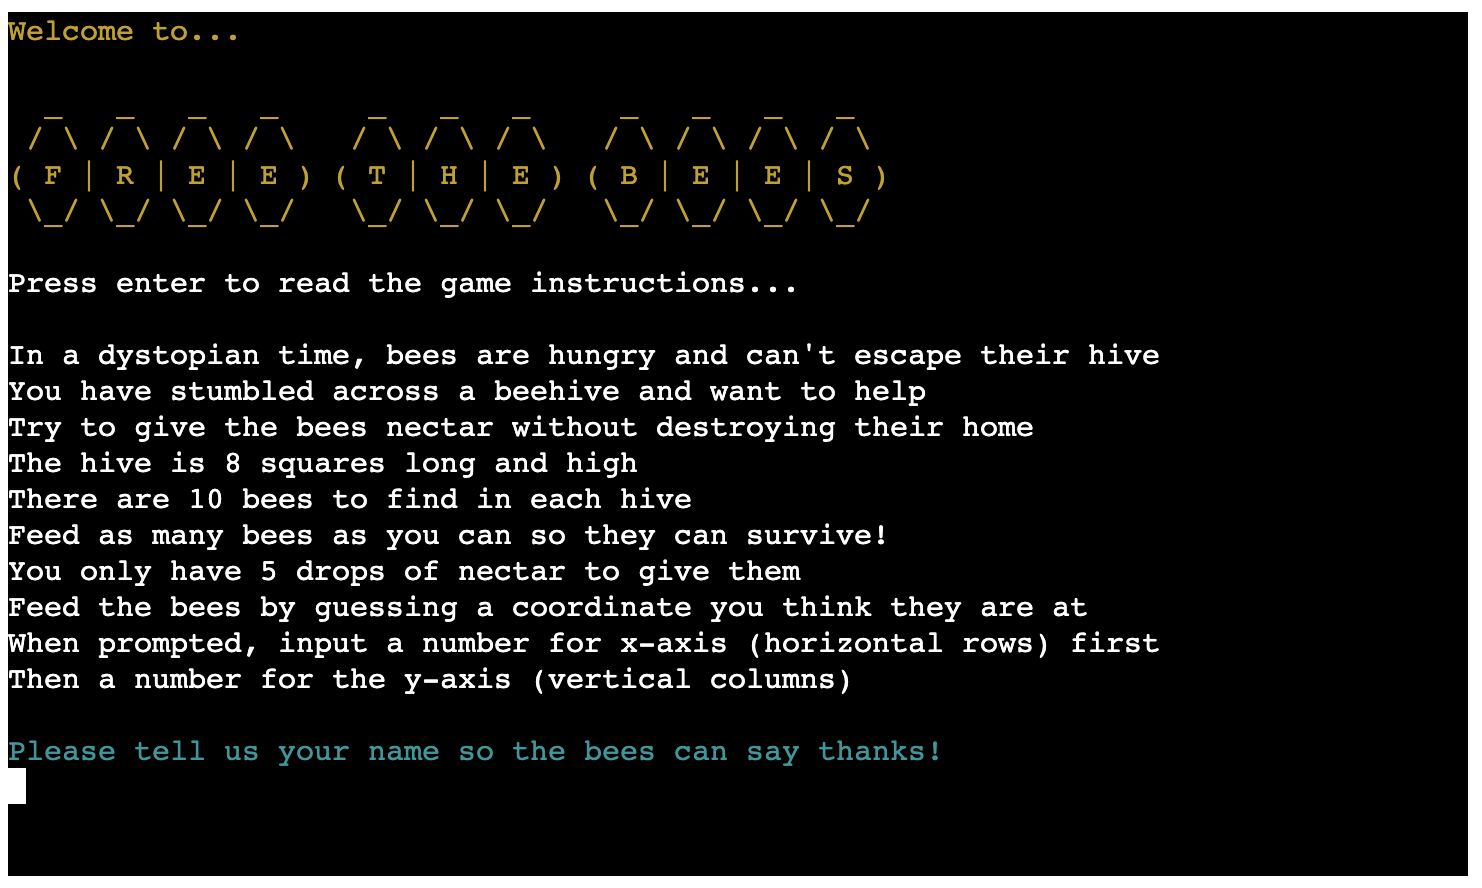
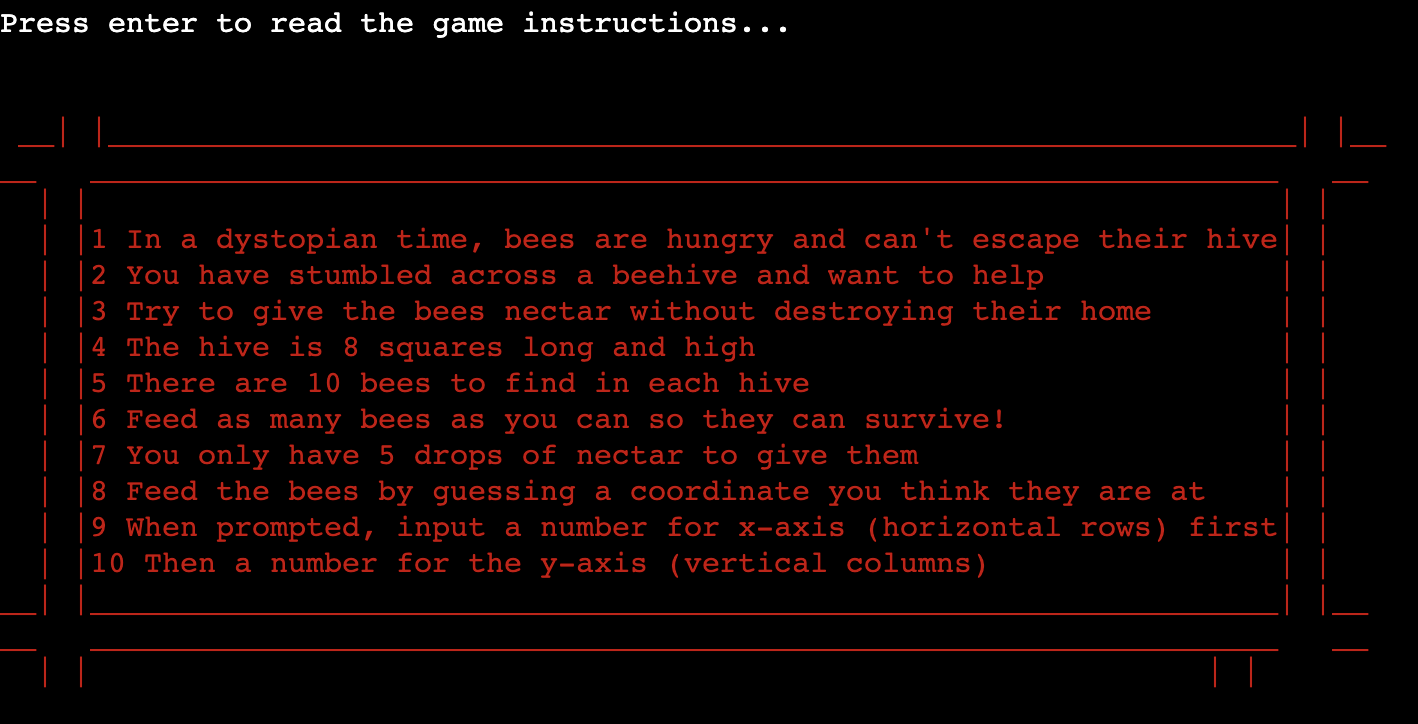
Update screenshots with art

Changed region(s): [[0.0, 0.0, 1.0, 1.0], [0.5585, 0.1215, 0.5896, 0.1519], [0.4034, 0.1215, 0.4344, 0.1519]]

diff --git a/README.md b/README.md
@@ -115,11 +115,11 @@ Lucidchart Edited Version
 
 #### The Title Art
 
+- When users first load the page, the Title Art is displayed to
+  - welcome the user and 
+  - introduce the name of the game
+
 ![A screenshot of the Title Art](docs/screenshots/pp3-title-art.png "Screenshot of the Title Art")
-
-- When users first load the page, the home page is displayed to
-  - welcome the user and introduce the name of the game
-
 
 #### The Backstory and Instructions
 
@@ -161,20 +161,18 @@ If the player enters an invalid answer
 - they have a chance to retry without crashing the game
 - and they receive some feedback on how to make a valid guess
 
-![A screenshot of invalid input](docs/screenshots/pp3-invalid-guess-nan.png "Screenshot of Not a Number")
+![A screenshot of invalid input](docs/screenshots/pp3-row-validation.png "Screenshot of row validation")
 
-![A screenshot of invalid input](docs/screenshots/pp3-invalid-guess-number.png "Screenshot of outside hive")
+![A screenshot of invalid input](docs/screenshots/pp3-column-validation.png "Screenshot of column validation")
 
 ### Future Implementations
 
-This project meets the requirements and is ready to help many people learn about cavity prevention.
+This project meets the requirements and is ready to play without issues.
 If more resources opened up, I could add some additional features:
 
-1. A progress bar displayed so the player could tell how many questions they had to go.
-2. An 'easy', 'moderate' and 'difficult' mode would be helpful to make the game even more useful for people of different knowledge levels. This could be achieved by creating another document for holding the data and separate arrays for easy, moderate and difficult questions. Hints could also be displayed in the Incorrect Answer pop up.
-3. Scrambling the order of the answers would also make the game more helpful for repeat users. This could be achieved by calling the answers in a different way and again shuffling the order with the Fisher Yates Method.
+1. It would be interesting to have the time to work with more features such as the background image, placing the terminal centered in the screen and so on.
+2. Varying the mode from 'easy' to 'difficult' would be helpful to make the game even more useful for people of interest levels. This could be achieved by creating a class for the Hive and asking the using to input a SIZE between say 5 and 15.
 4. Adding game sounds and more exciting animations would increase interest and novelty.
-5. Providing a link to sites such as [The Irish Dental Health Foundation](https://www.dentalhealth.ie/) or [Brush My Teeth](https://brushmyteeth.ie/) to signpost the users to more educational resources.
 
 ### Accessibility
 
